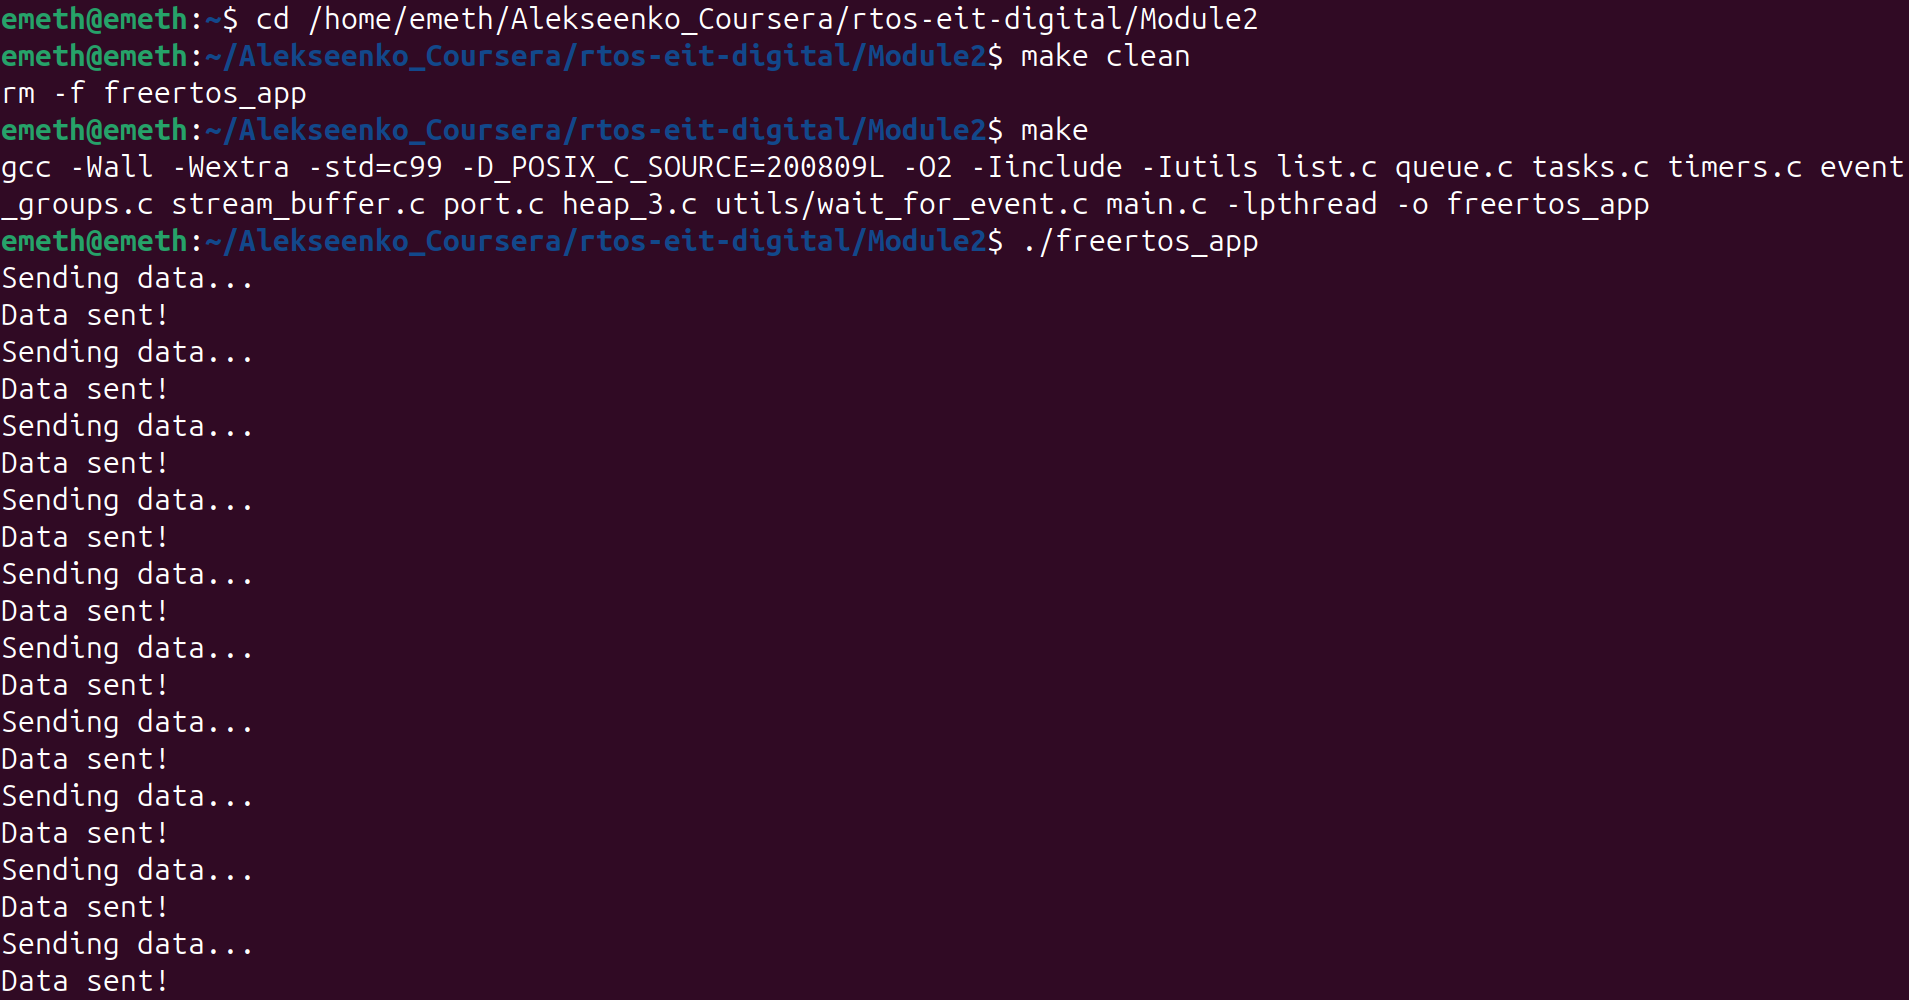
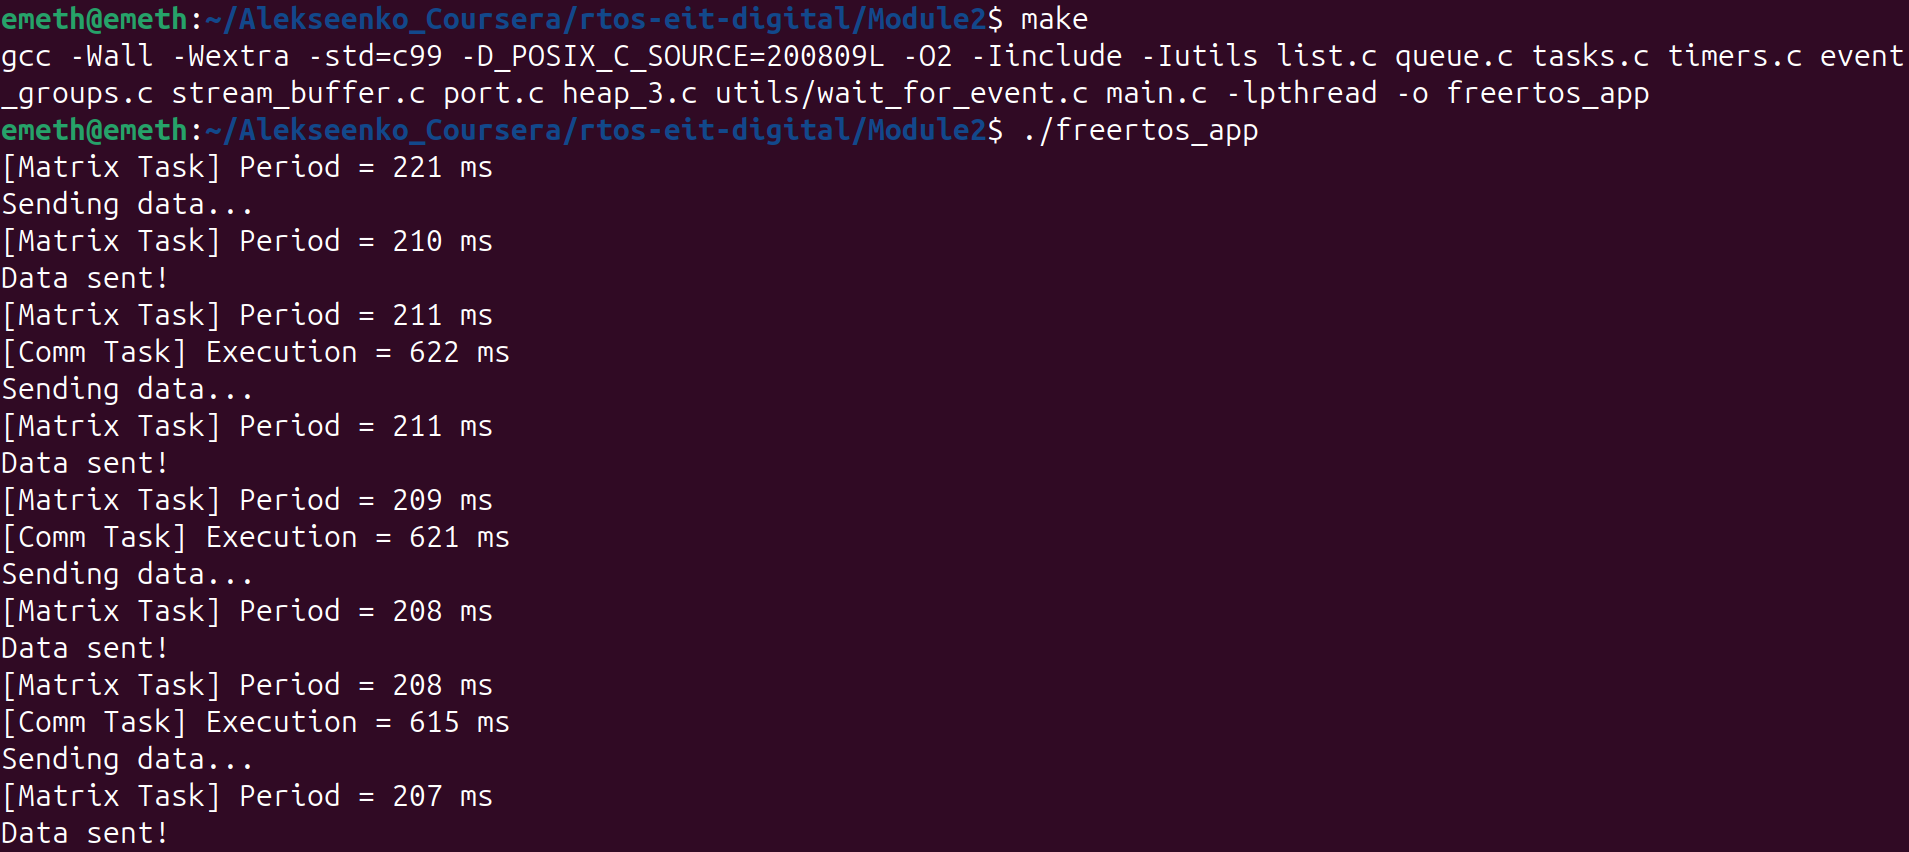
Readme.md and assets folder update

Changed region(s): [[0.0, 0.0, 1.0, 1.0], [0.2163, 0.3662, 0.2782, 0.4272]]

diff --git a/Module2/README.md b/Module2/README.md
@@ -4,11 +4,27 @@
 
 A minimal POSIX‑based FreeRTOS demo implementing three tasks and dynamic priority management:
 
-- `matrix_task`: performs heavy CPU‑intensive matrix multiplication every cycle (plus dummy delay), at initial priority 3  
-- `communication_task`: simulates I/O by printing *“Sending data…”* then *“Data sent!”* with 100 ms delays (total 200 ms period), at initial priority 1  
-- `priority_set_task`: monitors `communication_task` execution time via `vApplicationTickHook()` and adjusts its priority — raises to 4 if > 1000 ms, lowers to 2 if < 200 ms
+- `matrix_task`: performs heavy CPU‑intensive matrix multiplication every cycle (plus dummy delay), at initial priority 3; measures and prints its period each iteration.  
+- `communication_task`: simulates I/O by printing *“Sending data…”* then *“Data sent!”* with 100 ms delays (total 200 ms period), at initial priority 1; measures and prints its own execution time each cycle.  
+- `priority_set_task`: monitors `communication_task` execution time inside the task and adjusts its priority — raises to 4 if execution time > 1000 ms, lowers to 2 if < 200 ms.
 
 ### Building & Running
+
+```bash
+make clean
+make
+./freertos_app
+```
+
+**Sample Output:**
+
+![Freehand Drawing.svg](assets/assignment2.png)
+
+This log provides both the period of `matrix_task` and the execution time of `communication_task`, allowing verification of deadlines and priority changes.
+
+> **Nota bene:** According to the original assignment, `communication_task`’s priority should only be raised when its execution time exceeds **1000 ms** (and lowered when it’s below **200 ms**). In the sample run above, execution times never reach **1000 ms**, so we won’t see the “raise to 4” event under normal load. To demonstrate the priority boost, we can either simulate a longer delay in `communication_task` or *temporarily reduce* the **1000 ms** threshold for testing purposes.
+
+### Pre-requisites for project building
 
 This assignment reuses the project structure from [Module 1](https://github.com/cloclacordis/rtos-eit-digital/tree/e84920b77fee42bcd3ca450efcebd4cdbd2e5602/Module1), with some modified files.
 
@@ -23,7 +39,6 @@ To prepare the project copy all files and folders from `Module1` into `Module2` 
 
 After replacement, **the `Module2` directory structure** should look like this:
 
-  
 `assets/` <- original `Module2`, *not copied* from `Module1`  
 `croutine.c`  
 `event_groups.c`  
@@ -41,31 +56,18 @@ After replacement, **the `Module2` directory structure** should look like this:
 `timers.c`  
 `utils/`
 
-**Build & Run:**
-
-```bash
-# cd Module2
-make clean
-make
-./freertos_app
-```
-
-In the terminal will see the output:
-
-![Freehand Drawing.svg](assets/assignment2.png)
-
 ### Assignment Questions & Answers
 
 As part of the assignment requirements, the following questions were posed. Below are answers based on the implemented system behavior:
 
 1. **Why is `matrix_task` using most of the CPU utilization?**
-> Because it performs heavy matrix multiplications and a large dummy delay loop, consuming most CPU time.
+> It runs a long dummy loop (1 × 10⁹ NOPs) plus a full 10×10 matrix multiplication with nested loops each cycle, which monopolizes the processor.
 
 2. **Why must the priority of `communication_task` increase in order for it to work properly?**
-> Since `matrix_task` has higher priority and runs frequently, it blocks `communication_task`. Increasing `communication_task` priority ensures it gets CPU time to meet its 200 ms deadline.
+> Because `matrix_task` (priority 3) otherwise hogs the CPU, the lower‑priority I/O task misses its 200 ms period unless its priority is boosted so it can preempt.
 
 3. **What happens to the completion time of `matrix_task` when the priority of `communication_task` is increased?**
-> The completion time of `matrix_task` increases because it is preempted more often by the higher-priority `communication_task`.
+> Its effective period grows (it takes longer per cycle) because `communication_task` preempts it more often.
 
 4. **How many seconds is the period of `matrix_task`?**
-> The period of `matrix_task` is approximately 100 ms, controlled by `vTaskDelay(100)` calls and measurable via `vApplicationTickHook()`.
+> Measured inside the task via `xTaskGetTickCount()`, its period averages **0.21 seconds** (210 ms).
